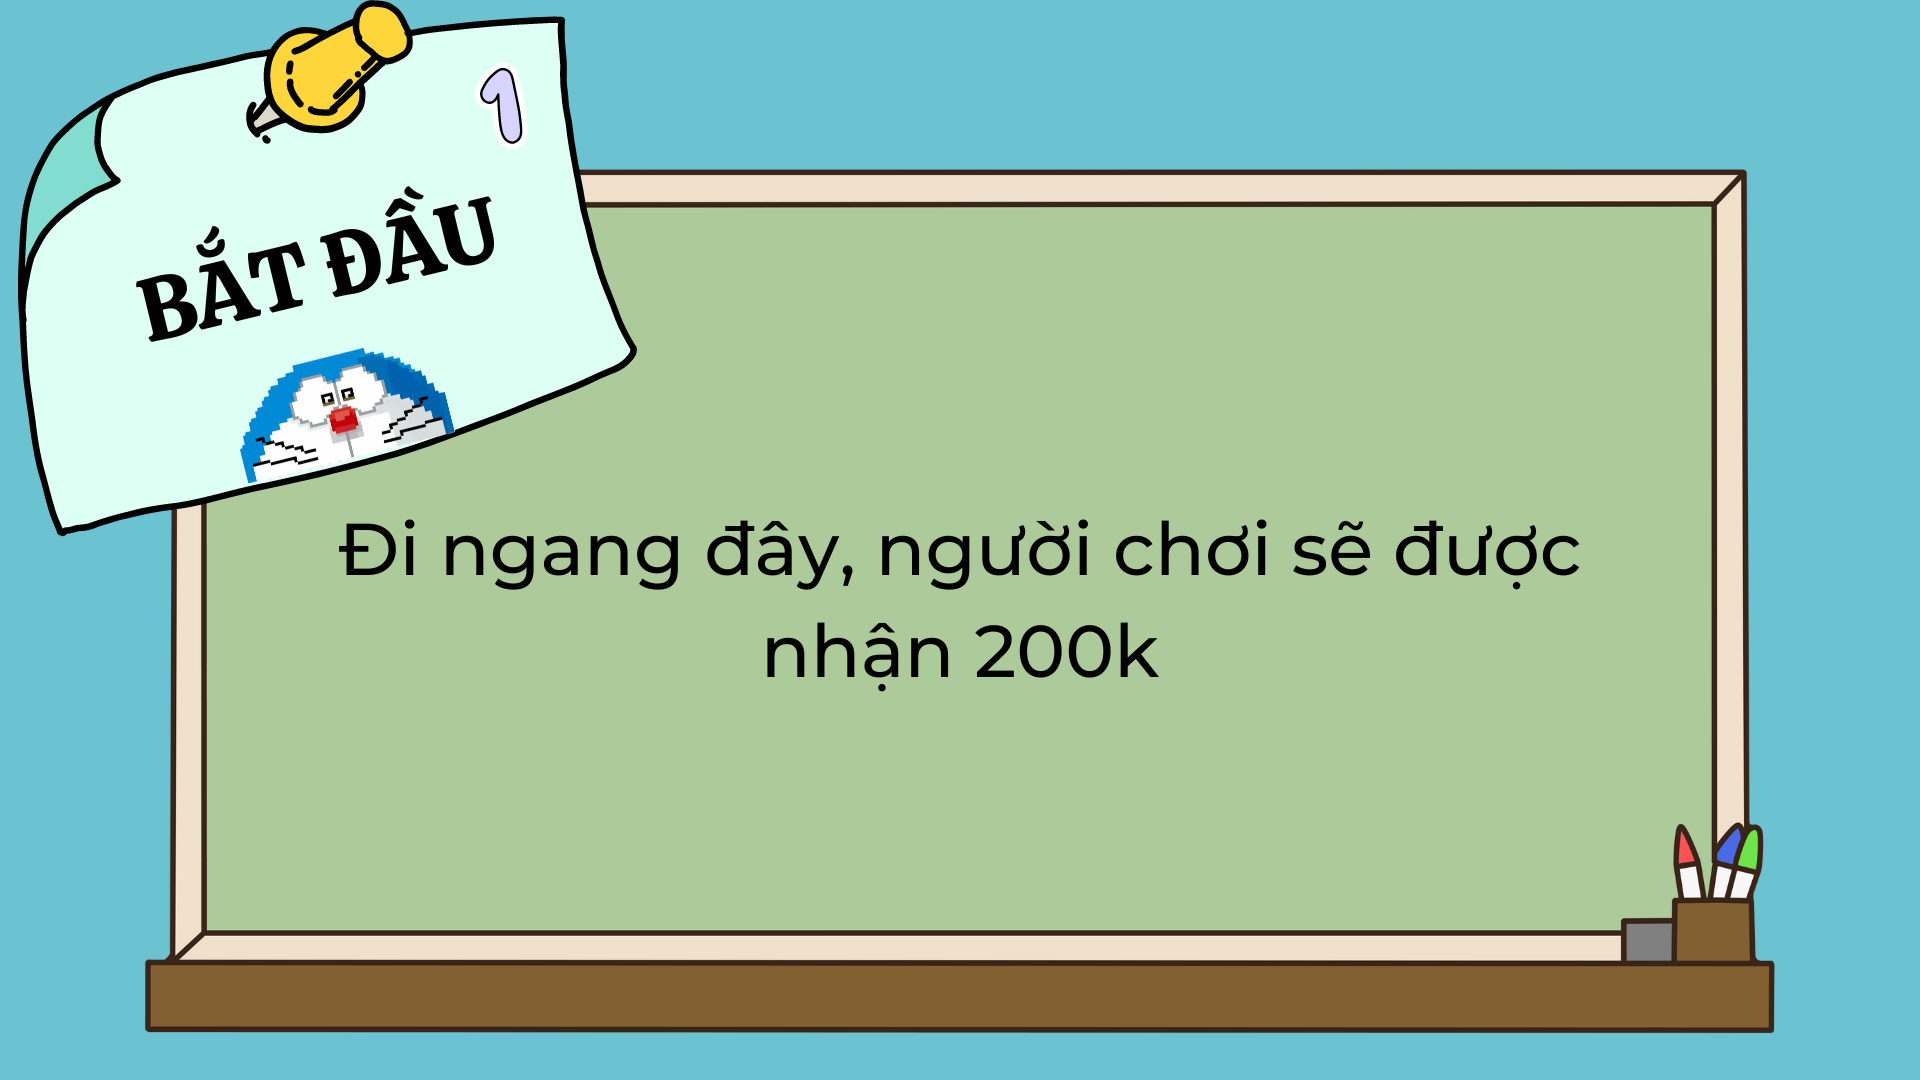
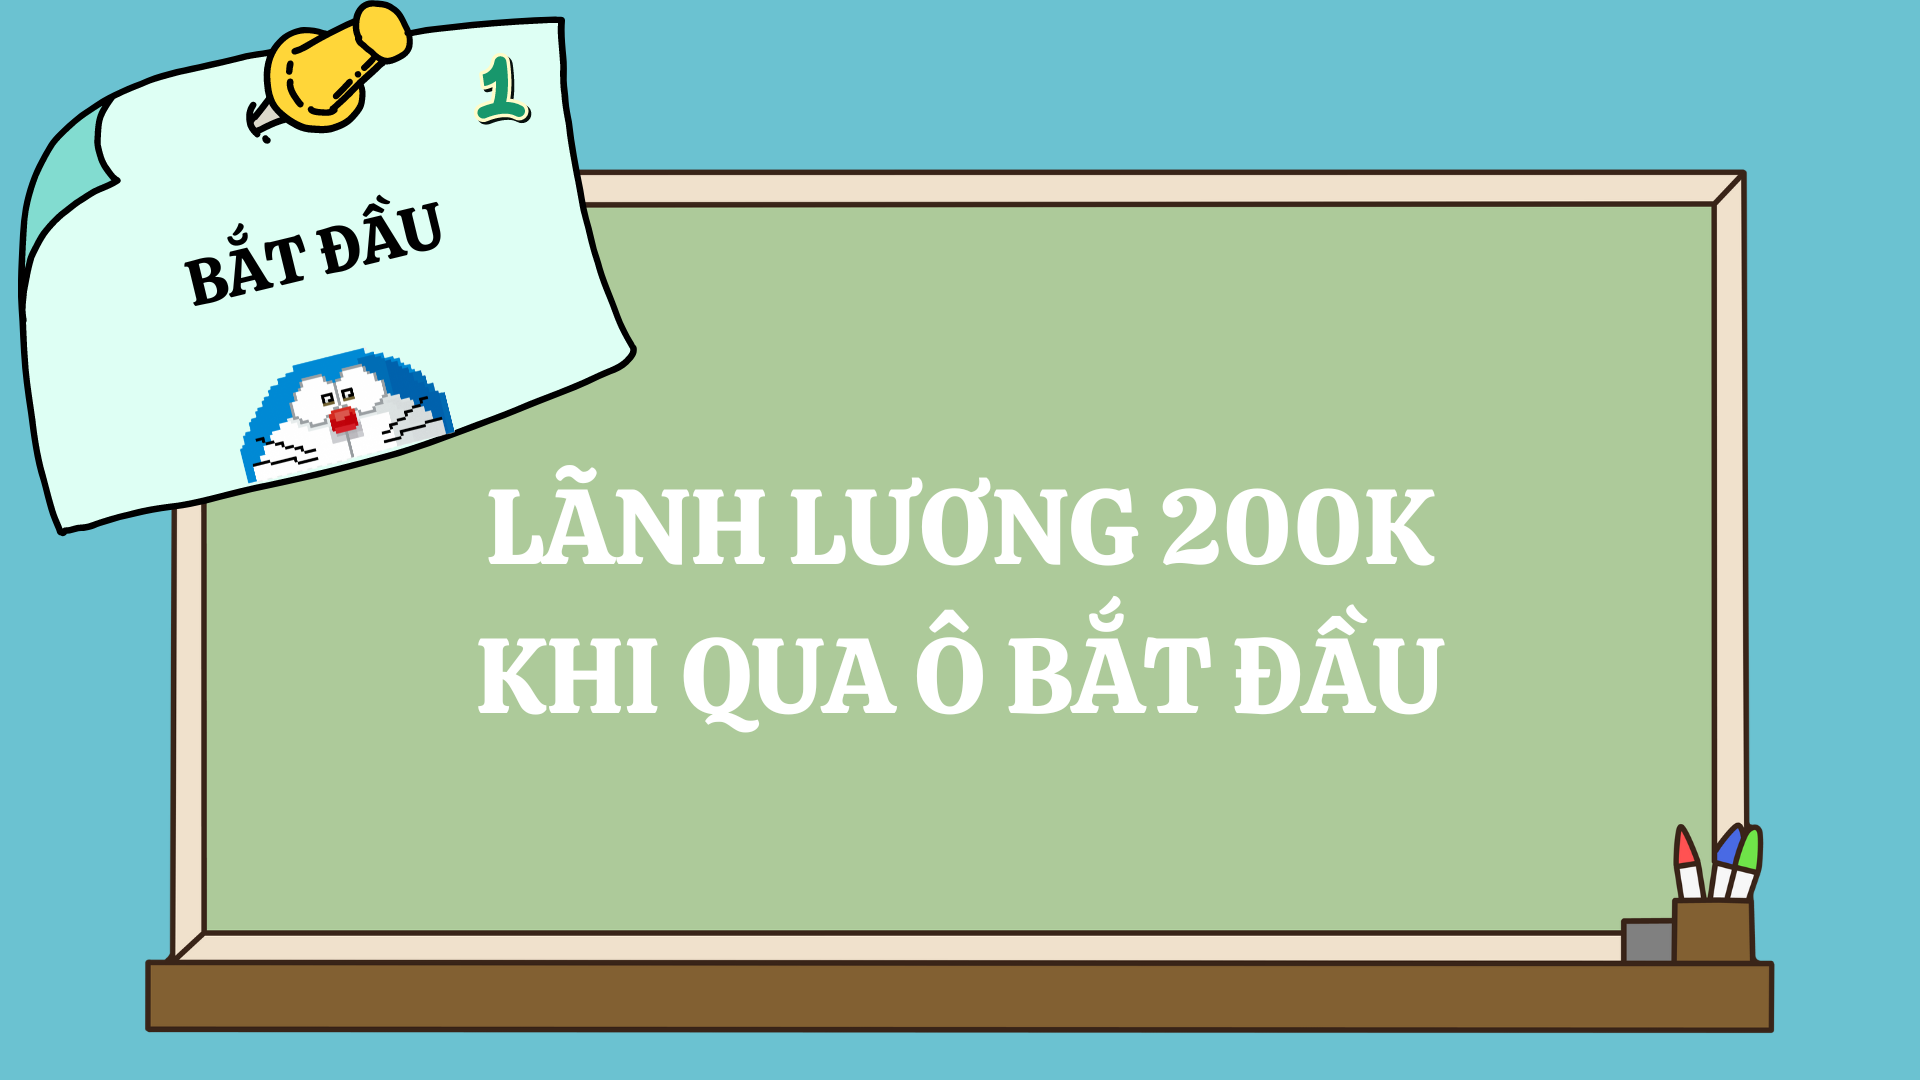
refactor graphics module

Changed region(s): [[0.1562, 0.4278, 0.8125, 0.6722], [0.0625, 0.1833, 0.2812, 0.3361], [0.25, 0.0306, 0.2812, 0.1528]]

diff --git a/main.cpp b/main.cpp
@@ -13,8 +13,7 @@ using namespace std;
 void waitUntilKeyPressed() {
     SDL_Event e;
     while (true) {
-        if ( SDL_PollEvent(&e) != 0 &&
-             (e.type == SDL_KEYDOWN || e.type == SDL_QUIT) )
+        if (SDL_PollEvent(&e) != 0 && (e.type == SDL_KEYDOWN || e.type == SDL_QUIT))
             return;
         SDL_Delay(300);
     }
@@ -25,7 +24,7 @@ int main(int argc, char* argv[]) {
     Graphics graphics;
     graphics.initSDL(SCREEN_W, SCREEN_H);
 
-    //Nạp ảnh mở màn
+    /*/Nạp ảnh mở màn
     SDL_Texture* start_screen = graphics.loadTexture("images/batdau.png");
     graphics.prepareScene(start_screen);
 
@@ -249,7 +248,7 @@ int main(int argc, char* argv[]) {
     welcome.present(graphics);
     welcome.destroy();
 
-    SDL_Delay(3000);
+    SDL_Delay(3000);*/
 
     //Ô khởi đầu
     SDL_Texture* Cell = graphics.loadTexture("images/cells/cell1.png");
@@ -271,10 +270,10 @@ int main(int argc, char* argv[]) {
     SDL_Texture* in4_Chaien = graphics.renderText2(to_string(Chaien.money), font, color);
 
     //Nạp in4 các nhân vật
-    graphics.renderTexture(in4_Nobita, 50, 200);
-    graphics.renderTexture(in4_Shizuka, 50, 450);
-    graphics.renderTexture(in4_Suneo, 600, 200);
-    graphics.renderTexture(in4_Chaien, 600, 450);
+    graphics.renderTexture(in4_Nobita, M_X, M_Y);
+    graphics.renderTexture(in4_Shizuka, M_X, M_Y + M_H);
+    graphics.renderTexture(in4_Suneo, M_X + M_W, M_Y);
+    graphics.renderTexture(in4_Chaien, M_X + M_W, M_Y + M_H);
 
     //Nạp nhân vật
     Nobita.p = Shizuka.p = Suneo.p = Chaien.p = 1;
@@ -291,101 +290,19 @@ int main(int argc, char* argv[]) {
     graphics.presentScene();
     waitUntilKeyPressed();
 
-    //Vòng lặp
-    int stt = 0;
+    //Vào game
+    int stt = -1;
+    Monopoly thu(graphics);
 
     while ((Nobita.turn < 30 || Shizuka.turn < 30 || Suneo.turn < 30 || Chaien.turn < 30) && !(Nobita.bankrupt && Shizuka.bankrupt && Suneo.bankrupt && Chaien.bankrupt)) {
-        stt = (stt + 1) % 5;
+        stt = (stt + 1) % 4;
 
-        if (stt = 1) {
+        if (stt == 0) {
             Nobita.turn++;
-
-            SDL_Texture* blank = graphics.loadTexture("images/blue1.png");
-            graphics.prepareScene(blank);
-
-            graphics.presentScene();
-
-            int a, b;
-            SDL_Event get_dice;
-            SDL_Texture* button = graphics.loadTexture("images/button.png");
-            while (true) {
-                int x, y;
-                bool quit = false;
-                SDL_GetMouseState(&x, &y);
-
-                SDL_Rect dices;
-                dices.x = 920;
-                dices.y = 580;
-                dices.w = 200;
-                dices.h = 210;
-
-                if (x >= dices.x && x <= dices.x + dices.w && y >= dices.y && y <= dices.y + dices.h) {
-                    graphics.prepareScene(blank);
-                    graphics.renderTexture_new_size(button, 920, 580, 200, 210);
-                }
-                else {
-                    graphics.prepareScene(blank);
-                    graphics.renderTexture_new_size(button, 930, 590, 180, 190);
-                }
-                graphics.presentScene();
-
-                SDL_PollEvent(&get_dice);
-                switch (get_dice.type) {
-                    case SDL_QUIT:
-                        exit(0);
-                        break;
-                    case SDL_MOUSEBUTTONDOWN:
-                        if (x >= dices.x && x <= dices.x + dices.w && y >= dices.y && y <= dices.y + dices.h) {
-                            a = rand() % 6;
-                            b = rand() % 6;
-                            quit = true;
-                        }
-                }
-                if (quit) break;
-            }
-
-            SDL_Delay(1000);
-
-            SDL_Texture* dice1 = graphics.loadTexture(Dice[a]);
-            graphics.renderTexture_new_size(dice1, 650, 200, 200, 200);
-            SDL_Texture* dice2 = graphics.loadTexture(Dice[b]);
-            graphics.renderTexture_new_size(dice2, 880, 200, 200, 200);
-
-            graphics.presentScene();
-            SDL_Delay(2000);
-
-            //Thay đổi vị trí
-            Nobita.p += (a + b + 2);
-            Nobita.p %= 36;
-
-            //Xóa
-            SDL_DestroyTexture(button);
-            button = NULL;
-            SDL_DestroyTexture(dice2);
-            dice2 = NULL;
-            SDL_DestroyTexture(dice1);
-            dice1 = NULL;
-
-            SDL_DestroyTexture(blank);
-            blank = NULL;
-
-            //Chuẩn bị bàn cờ
-            graphics.prepareScene(board);
-
-            graphics.renderTexture_new_size(nobita, N_X[Nobita.p], N_Y[Nobita.p], N_W, N_H);
-            graphics.renderTexture_new_size(shizuka, S_X + N_X[Shizuka.p], S_Y + N_Y[Shizuka.p], S_W, S_H);
-            graphics.renderTexture_new_size(suneo, X_X + N_X[Suneo.p], X_Y + N_Y[Suneo.p], X_W, X_H);
-            graphics.renderTexture_new_size(chaien, C_X + N_X[Chaien.p], C_Y + N_Y[Chaien.p], C_W, C_H);
-
-            graphics.renderTexture(in4_Nobita, 50, 100);
-            graphics.renderTexture(in4_Shizuka, 250, 100);
-            graphics.renderTexture(in4_Suneo, 50, 300);
-            graphics.renderTexture(in4_Chaien, 250, 300);
-
-            //Hiện lại bàn cờ
-            graphics.presentScene();
-            waitUntilKeyPressed();
+            thu.gieoxingau(stt);
+            thu.hienbanco();
         }
+
         break;
     }
 

diff --git a/logic.h b/logic.h
@@ -1,8 +1,136 @@
 #ifndef _LOGIC__H
 #define _LOGIC__H
 
-struct Monopoly{
+#include <SDL.h>
+#include <SDL_image.h>
+#include <SDL_mixer.h>
+#include <SDL_ttf.h>
+#include "graphics.h"
+#include "defs.h"
 
+using namespace std;
+
+struct Monopoly {
+    Graphics graphics;
+    Monopoly (Graphics _graphics) {
+        graphics = _graphics;
+    }
+
+    void waitUntilKeyPressed() {
+        SDL_Event e;
+        while (true) {
+            if (SDL_PollEvent(&e) != 0 && (e.type == SDL_KEYDOWN || e.type == SDL_QUIT))
+                return;
+            SDL_Delay(300);
+        }
+    }
+
+    void gieoxingau(int stt) {
+        SDL_Texture* blank = graphics.loadTexture(Turn[stt]);
+        graphics.prepareScene(blank);
+        graphics.presentScene();
+
+        int a, b;
+        SDL_Event get_dice;
+        SDL_Texture* button = graphics.loadTexture("images/button.png");
+        while (true) {
+            int x, y;
+            bool quit = false;
+            SDL_GetMouseState(&x, &y);
+
+            SDL_Rect dices;
+            dices.x = 920;
+            dices.y = 580;
+            dices.w = 200;
+            dices.h = 210;
+
+            if (x >= dices.x && x <= dices.x + dices.w && y >= dices.y && y <= dices.y + dices.h) {
+                graphics.prepareScene(blank);
+                graphics.renderTexture_new_size(button, 920, 580, 200, 210);
+            }
+            else {
+                graphics.prepareScene(blank);
+                graphics.renderTexture_new_size(button, 930, 590, 180, 190);
+            }
+            graphics.presentScene();
+
+            SDL_PollEvent(&get_dice);
+            switch (get_dice.type) {
+                case SDL_QUIT:
+                    exit(0);
+                    break;
+                case SDL_MOUSEBUTTONDOWN:
+                    if (x >= dices.x && x <= dices.x + dices.w && y >= dices.y && y <= dices.y + dices.h) {
+                        a = rand() % 6;
+                        b = rand() % 6;
+                        quit = true;
+                    }
+            }
+            if (quit) break;
+        }
+
+        SDL_Delay(200);
+
+        SDL_Texture* dice1 = graphics.loadTexture(Dice[a]);
+        graphics.renderTexture_new_size(dice1, 650, 200, 200, 200);
+        SDL_Texture* dice2 = graphics.loadTexture(Dice[b]);
+        graphics.renderTexture_new_size(dice2, 880, 200, 200, 200);
+
+        graphics.presentScene();
+        SDL_Delay(500);
+
+        //Thay đổi vị trí
+        if (stt == 0) Nobita.p += (a + b + 2) % 36;
+        else if (stt == 1) Shizuka.p += (a + b + 2) % 36;
+        else if (stt == 2) Suneo.p += (a + b + 2) % 36;
+        else Chaien.p += (a + b + 2) % 36;
+
+        //Xóa
+        SDL_DestroyTexture(button);
+        button = NULL;
+        SDL_DestroyTexture(dice2);
+        dice2 = NULL;
+        SDL_DestroyTexture(dice1);
+        dice1 = NULL;
+
+        SDL_DestroyTexture(blank);
+        blank = NULL;
+    }
+
+    void hienbanco() {
+        SDL_Texture* board = graphics.loadTexture("images/board.png");
+
+        //Nạp font
+        TTF_Font* font = graphics.loadFont("fonts/TNR/times.ttf", 50);
+        SDL_Color color = {0, 0, 0, 0};
+        SDL_Texture* in4_Nobita = graphics.renderText2(to_string(Nobita.money), font, color);
+        SDL_Texture* in4_Shizuka = graphics.renderText2(to_string(Shizuka.money), font, color);
+        SDL_Texture* in4_Suneo = graphics.renderText2(to_string(Suneo.money), font, color);
+        SDL_Texture* in4_Chaien = graphics.renderText2(to_string(Chaien.money), font, color);
+
+        //Nạp nhân vật
+        SDL_Texture* nobita = graphics.loadTexture("images/characters_removed_background/Nobita.png");
+        SDL_Texture* shizuka = graphics.loadTexture("images/characters_removed_background/Shizuka.png");
+        SDL_Texture* suneo = graphics.loadTexture("images/characters_removed_background/Suneo.png");
+        SDL_Texture* chaien = graphics.loadTexture("images/characters_removed_background/Chaien.png");
+
+        //Chuẩn bị bàn cờ
+        graphics.prepareScene(board);
+
+        graphics.renderTexture_new_size(nobita, N_X[Nobita.p], N_Y[Nobita.p], N_W, N_H);
+        graphics.renderTexture_new_size(shizuka, S_X + N_X[Shizuka.p], S_Y + N_Y[Shizuka.p], S_W, S_H);
+        graphics.renderTexture_new_size(suneo, X_X + N_X[Suneo.p], X_Y + N_Y[Suneo.p], X_W, X_H);
+        graphics.renderTexture_new_size(chaien, C_X + N_X[Chaien.p], C_Y + N_Y[Chaien.p], C_W, C_H);
+
+        graphics.renderTexture(in4_Nobita, M_X, M_Y);
+        graphics.renderTexture(in4_Shizuka, M_X, M_Y + M_H);
+        graphics.renderTexture(in4_Suneo, M_X + M_W, M_Y);
+        graphics.renderTexture(in4_Chaien, M_X + M_W, M_Y + M_H);
+
+        //Hiện lại bàn cờ
+        graphics.presentScene();
+        waitUntilKeyPressed();
+    }
 };
 
 #endif // _LOGIC__H

diff --git a/defs.h b/defs.h
@@ -59,17 +59,9 @@ struct character{
 
 //Thứ tự ảnh xí ngầu
 const char* Dice[] = {"images/dice/xx1.png", "images/dice/xx2.png", "images/dice/xx3.png", "images/dice/xx4.png", "images/dice/xx5.png", "images/dice/xx6.png"};
+const char* Turn[] = {"images/blue1.png", "images/blue2.png", "images/blue3.png", "images/blue4.png"};
 
-//Thông tin người chơi
-const int nobita_x = 100;
-const int nobita_y = 50;
-const int shizuka_x = 100;
-const int shizuka_y = 500;
-const int suneo_x = 500;
-const int suneo_y = 50;
-const int chaien_x = 500;
-const int chaien_y = 500;
-
+//Thứ tự thẻ theo ô
 const char* cells[] = {"images/cells/cell36.png", "images/cells/cell1.png", "images/cells/cell2.png", "images/cells/cell3.png",
 "images/cells/cell4.png", "images/cells/cell5.png", "images/cells/cell6.png", "images/cells/cell7.png", "images/cells/cell8.png",
 "images/cells/cell9.png", "images/cells/cell10.png", "images/cells/cell11.png", "images/cells/cell12.png", "images/cells/cell13.png",
@@ -78,5 +70,11 @@ const char* cells[] = {"images/cells/cell36.png", "images/cells/cell1.png", "ima
 "images/cells/cell24.png", "images/cells/cell25.png", "images/cells/cell26.png", "images/cells/cell27.png", "images/cells/cell28.png",
 "images/cells/cell29.png", "images/cells/cell30.png", "images/cells/cell31.png", "images/cells/cell32.png", "images/cells/cell33.png",
 "images/cells/cell34.png", "images/cells/cell35.png"};
+
+//Vị trí in số tiền
+const int M_X = 50;
+const int M_Y = 200;
+const int M_W = 950;
+const int M_H = 300;
 
 #endif // _DEFS__H
